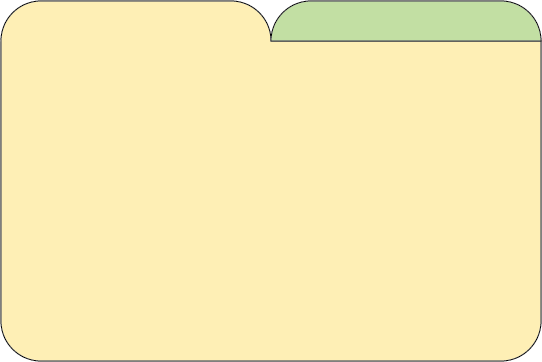
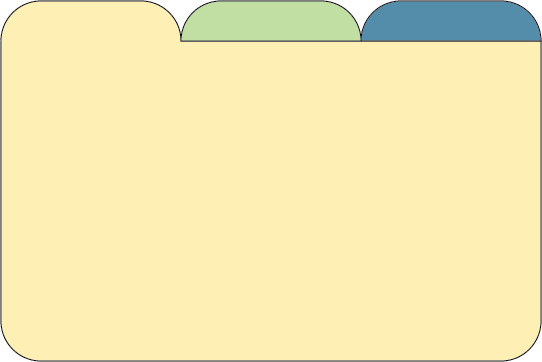
Added info tab

Changed region(s): [[0.5904, 0.0, 1.0, 0.1215], [0.2657, 0.0, 0.5609, 0.1215]]

diff --git a/main.js b/main.js
@@ -36,6 +36,10 @@ let militaryUpgradesTabIcon;            // Military upgrades tab icon
 let scienceUpgradesTabIcon;             // Science upgrades tab icon
 let religionUpgradesTabIcon;            // Religion upgrades tab icon
 
+let infoTabButton;           // Info tab button
+let infoTabText;             // Info tab button text
+let infoTabBackground;       // Info tab background
+
 let allocationTabButton;     // Ant allocation tab button
 let allocationTabText;       // Allocation tab button text
 let allocationTabElements;   // Array holding allocation tab UI elements
@@ -100,11 +104,21 @@ function initializeUIElements() {
     scienceAntsDisplay = new RenderText("Science Ants: 0", 10, 60, "20px Comic Sans", "black", "left", false, 0);
     religionAntsDisplay = new RenderText("Religion Ants: 0", 10, 80, "20px Comic Sans", "black", "left", false, 0);
     antLimitDisplay = new RenderText("Ant Cap: 0/100", 10, 100, "20px Comic Sans", "black", "left", false, 0);
+
+    /**
+     * Info objects here:
+     */
+    infoTabButton = new Button("black.png", 390, 360, 180, 40, 0, showInfoTab);
+    infoTabButton.sprite.visible = false;
+    infoTabText = new RenderText("Info", 455, 390, "26px Gothic", "black", "left", false, -1);
+    infoTabBackground = new Sprite("infobackground.png", 30, 360, 540, 360, 80);
     
-    // Push the elements for the upgrades tab into its array for showing/hiding its functionality later
-    upgradesTabButton = new Button("black.png", 300, 360, 270, 40, 0, showUpgradesTab);
+    /**
+     * Upgrades objects here:
+     */
+    upgradesTabButton = new Button("black.png", 210, 360, 180, 40, 0, showUpgradesTab);
     upgradesTabButton.sprite.visible = false;
-    upgradesTabText = new RenderText("Upgrades", 380, 390, "30px Gothic", "black", "left", false, -1);
+    upgradesTabText = new RenderText("Upgrades", 250, 390, "26px Gothic", "black", "left", false, -1);
     upgradesTabBackground = new Sprite("upgradesbackground.png", 30, 360, 540, 360, 80);
 
     workerUpgradesTabElements = [];
@@ -131,10 +145,13 @@ function initializeUIElements() {
     scienceUpgradesTabElements.push(scienceUpgradesTabBackground = new Sprite("scienceupgradebackground.png", 50, 420, 500, 280, 70));
     religionUpgradesTabElements.push(religionUpgradesTabBackground = new Sprite("religionupgradebackground.png", 50, 420, 500, 280, 70));
 
-    // Push the elements for the allocation tab into its array for showing/hiding its functionality later
-    allocationTabButton = new Button("black.png", 30, 360, 270, 40, 0, showAllocationTab);
+    /**
+     * Allocation objects here:
+     */
+    allocationTabButton = new Button("black.png", 30, 360, 180, 40, 0, showAllocationTab);
     allocationTabButton.sprite.visible = false;
-    allocationTabText = new RenderText("Allocation", 110, 390, "30px Gothic", "black", "left", false, -1);
+    allocationTabText = new RenderText("Allocation", 65, 390, "26px Gothic", "black", "left", false, -1);
+
     allocationTabElements = [];
     allocationTabElements.push(allocationTabBackground = new Sprite("allocationbackground.png", 30, 360, 540, 360, 80));
     allocationTabElements.push(militaryAntPlus = new Button("uparrow.png", GAME.WIDTH - 475, GAME.HEIGHT * 0.5 + 100, 50, 50, -50, antsPlus, ['militaryAnts']));
@@ -216,9 +233,10 @@ function showAntCap() {
     antLimitDisplay.text = `Ant Cap: ${totalAnts} / ${antLimit}`;
 }
 
-// Shows all allocation tab elements, hiding all upgrades tab elements
+// Shows all allocation tab elements
 function showAllocationTab() {
     setTabActive(allocationTabElements, true);
+    infoTabBackground.visible = false;
     upgradesTabBackground.visible = false;
     workerUpgradesTabButton.enabled = false;
     militaryUpgradesTabButton.enabled = false;
@@ -234,9 +252,10 @@ function showAllocationTab() {
     setTabActive(religionUpgradesTabElements, false);
 }
 
-// Shows all upgrade tab elements, hiding all allocation tab elements
+// Shows all upgrade tab elements
 function showUpgradesTab() {
     setTabActive(allocationTabElements, false);
+    infoTabBackground.visible = false;
     upgradesTabBackground.visible = true;
     workerUpgradesTabButton.enabled = true;
     militaryUpgradesTabButton.enabled = true;
@@ -247,6 +266,25 @@ function showUpgradesTab() {
     scienceUpgradesTabIcon.visible = true;
     religionUpgradesTabIcon.visible = true;
     showWorkerTab();
+}
+
+// Shows all info tab elements
+function showInfoTab() {
+    setTabActive(allocationTabElements, false);
+    infoTabBackground.visible = true;
+    upgradesTabBackground.visible = false;
+    workerUpgradesTabButton.enabled = false;
+    militaryUpgradesTabButton.enabled = false;
+    scienceUpgradesTabButton.enabled = false;
+    religionUpgradesTabButton.enabled = false;
+    workerUpgradesTabIcon.visible = false;
+    militaryUpgradesTabIcon.visible = false;
+    scienceUpgradesTabIcon.visible = false;
+    religionUpgradesTabIcon.visible = false;
+    setTabActive(workerUpgradesTabElements, false);
+    setTabActive(militaryUpgradesTabElements, false);
+    setTabActive(scienceUpgradesTabElements, false);
+    setTabActive(religionUpgradesTabElements, false);
 }
 
 function showWorkerTab(){
